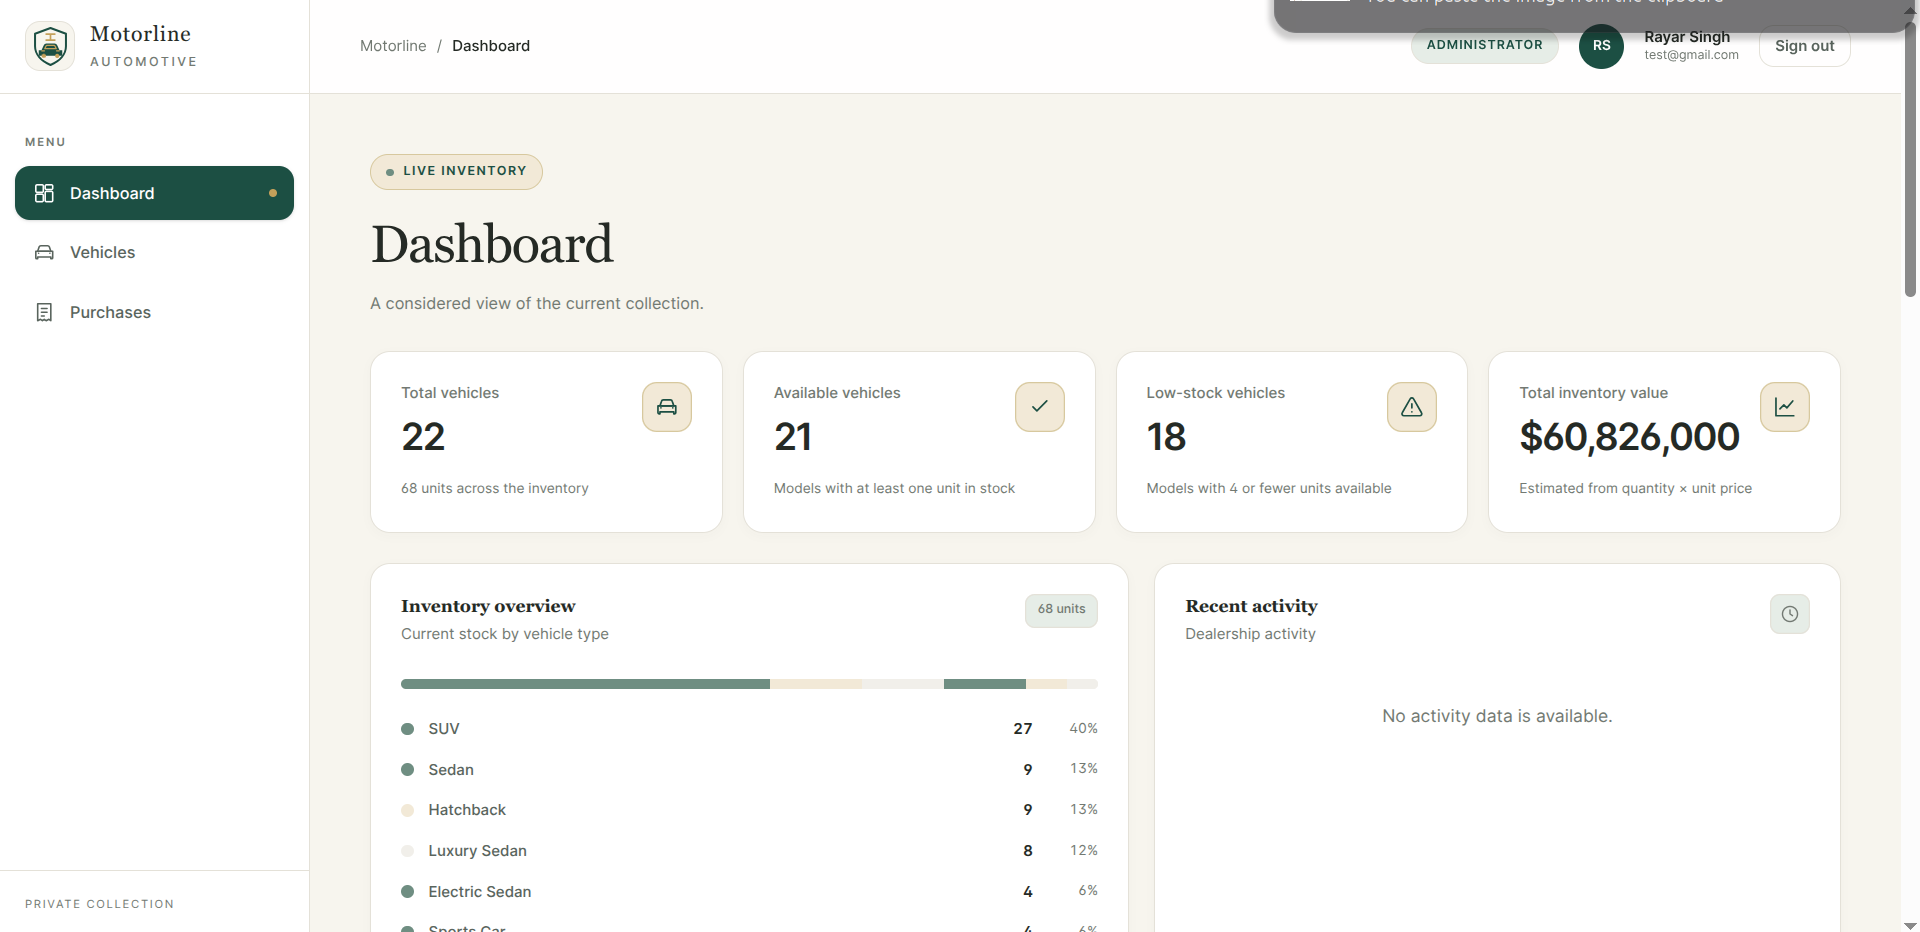
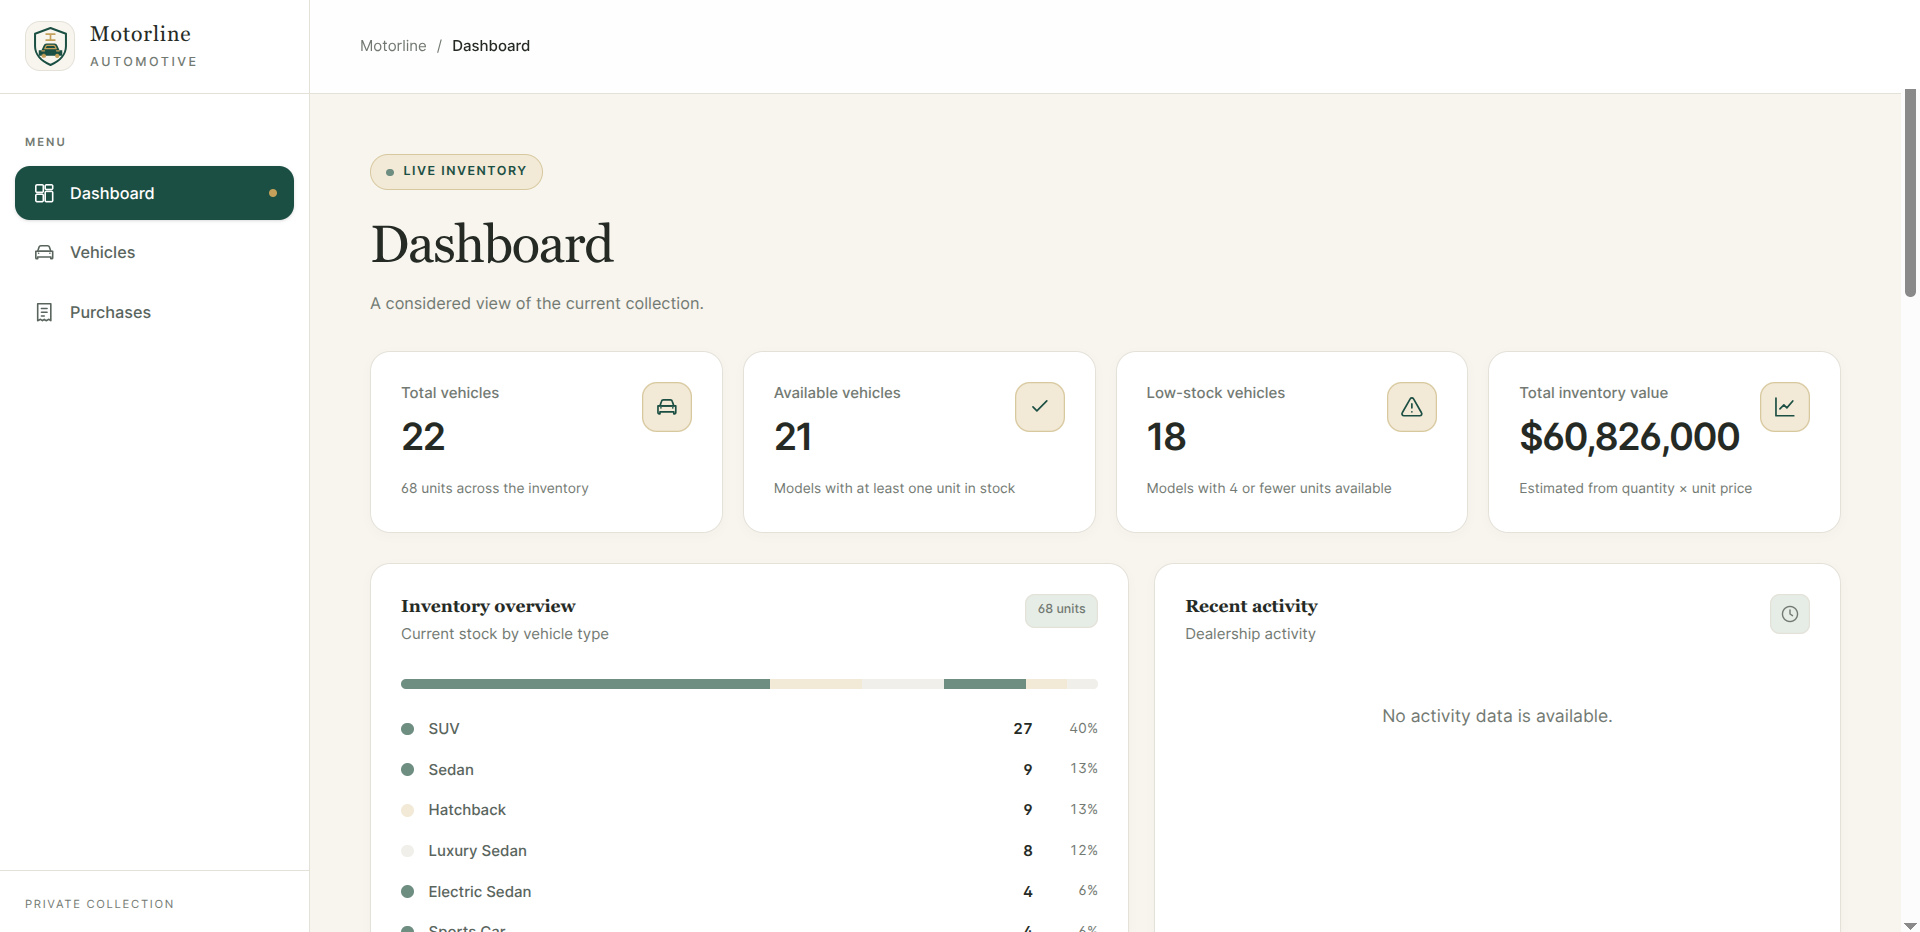
docs: improve README screenshots and architecture

Changed region(s): [[0.6562, 0.0, 1.0, 0.0933]]

diff --git a/README.md b/README.md
@@ -18,7 +18,43 @@ The application is branded **Motorline Automotive** in its customer and administ
 
 ## Screenshots
 
-These captures show the current sign-in and customer registration screens. They contain no entered account details. Other available captures were left out because they show identifying-looking account/order information or viewer overlays; verify and sanitize those before sharing them.
+The screenshots below show the implemented Motorline UI. I removed visible account details and the unique order ID from the relevant captures; the vehicle-list capture is cropped to remove the viewer overlay. Inventory counts, prices, and the displayed purchase are capture-time data and may not match the current API. The purchase-history capture still displays its captured vehicle and amount, while the account identity and order ID are redacted.
+
+### Customer experience
+
+#### Home page
+
+![Customer home page with hero, category filters, search, and inventory controls](docs/images/HomeScreen.png)
+
+*Customer landing page and entry point to the API-backed vehicle collection.*
+
+#### Vehicle listing
+
+![Customer vehicle listing with vehicle photographs, stock states, prices, and purchase buttons](docs/images/Cars%20Listing.png)
+
+*Inventory cards show images, availability, prices, and purchase actions. The capture is cropped to the vehicle listing and contains no account header.*
+
+#### Purchase history
+
+![Customer purchase history with one vehicle order; account identity and unique order ID are redacted](docs/images/Purchase%20History.png)
+
+*Customer purchase-history layout. The account header and unique order ID have been redacted; the captured row displays that payment details are unavailable.*
+
+### Administrator experience
+
+#### Inventory dashboard
+
+![Administrator dashboard with inventory totals, stock overview, and empty recent-activity panel](docs/images/Admin%20Dashboard.png)
+
+*Inventory-derived metrics and stock summaries. The recent-activity panel is empty in this capture; dashboard values reflect the capture-time inventory.*
+
+#### Vehicle management
+
+![Administrator vehicle management table with search, category and availability filters, and edit, restock, and delete actions](docs/images/Admin%20Vehicle.png)
+
+*Administrator inventory management view. The account area has been redacted.*
+
+### Authentication
 
 | Sign in | Create an account |
 | --- | --- |
@@ -303,9 +339,9 @@ The deployment preflight and smoke scripts are available as `npm run preflight:d
 
 ## Concept workflow illustration
 
-> **Concept illustration only — not a representation of implemented screens or data.** The legacy image below depicts a vehicle-details page, a cart, dashboard revenue/user metrics, and a `Cart Items` database model. Those features are not implemented. In the application, customers browse vehicle cards and purchase through a demo-payment modal; the admin dashboard reports inventory metrics; and the database has only `User`, `Vehicle`, and `Purchase` models. Use the source-based architecture diagram above and the captions on the genuine UI captures as implementation evidence.
+> **Concept illustration only — not a representation of implemented screens or data.** The legacy image below depicts a vehicle-details page, a cart, dashboard purchase/revenue/user metrics, and a `Cart Items` database model; those features are not implemented. Its administrator purchase table is illustrative, not a screenshot of the actual admin page (admin purchase history is implemented). In the application, customers browse vehicle cards and purchase through a demo-payment modal; the admin dashboard reports inventory metrics; and the database has only `User`, `Vehicle`, and `Purchase` models. The sample account and administrator order rows in the illustration have been redacted. Use the source-based architecture diagram above and the captions on the app captures as implementation evidence.
 
-![Conceptual dealership workflow illustration; depicted cart, vehicle-details screen, revenue/user metrics, and Cart Items model are not implemented](docs/images/Website Workflow.png)
+![Conceptual dealership workflow illustration; its sample account and administrator order rows are redacted, and the depicted cart, vehicle-details screen, dashboard revenue/user metrics, and Cart Items model are not implemented](docs/images/Website%20Workflow.png)
 
 ## My AI Usage
 
